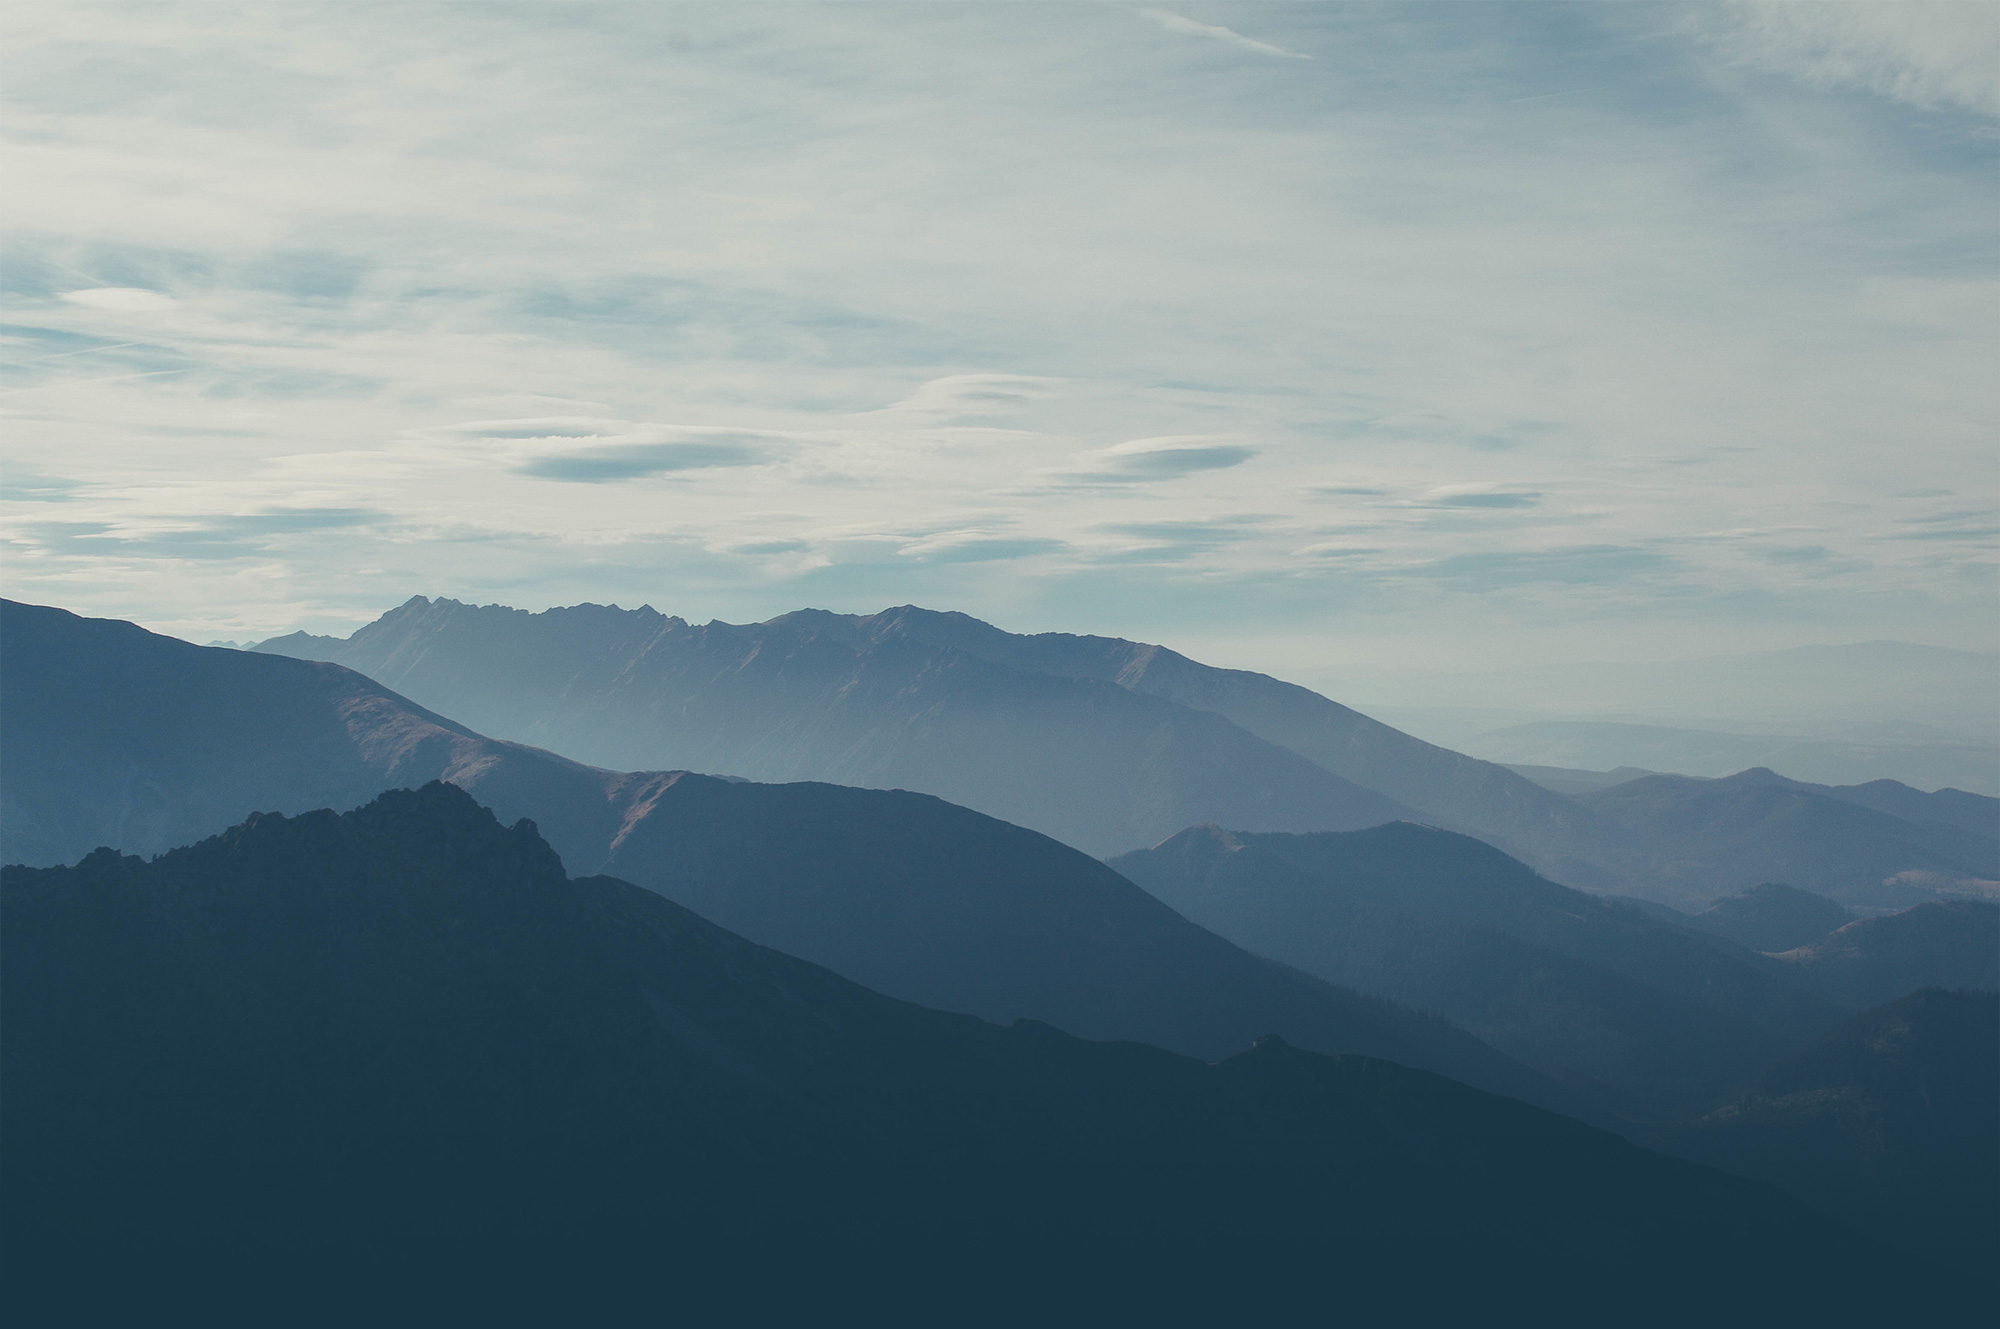
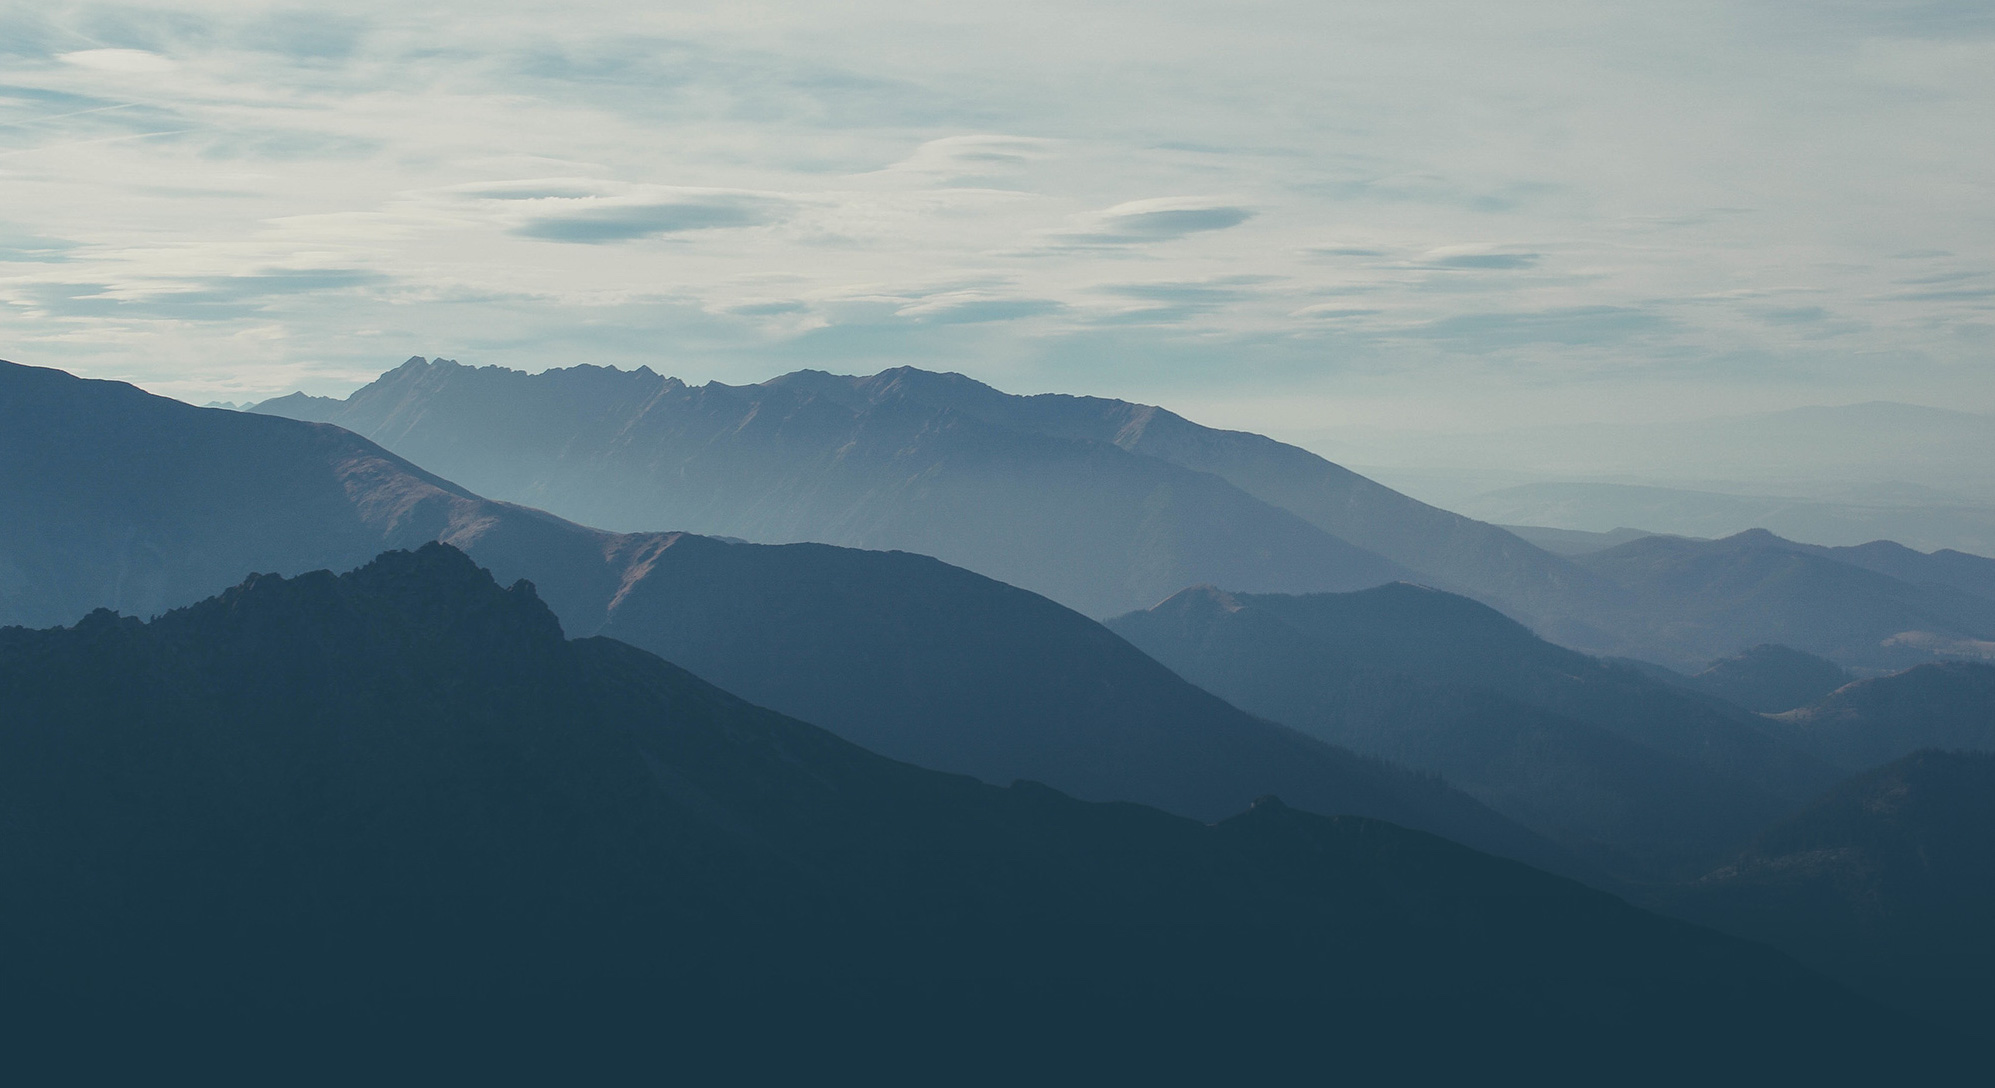
fix background image to match model

diff --git a/styles/landing-page.css b/styles/landing-page.css
@@ -5,6 +5,8 @@
 }
 
 body {
+  position: relative;
+  padding: 0;
   background: url("../img/mountains.jpg") no-repeat center bottom;
   background-size: cover;
 }
